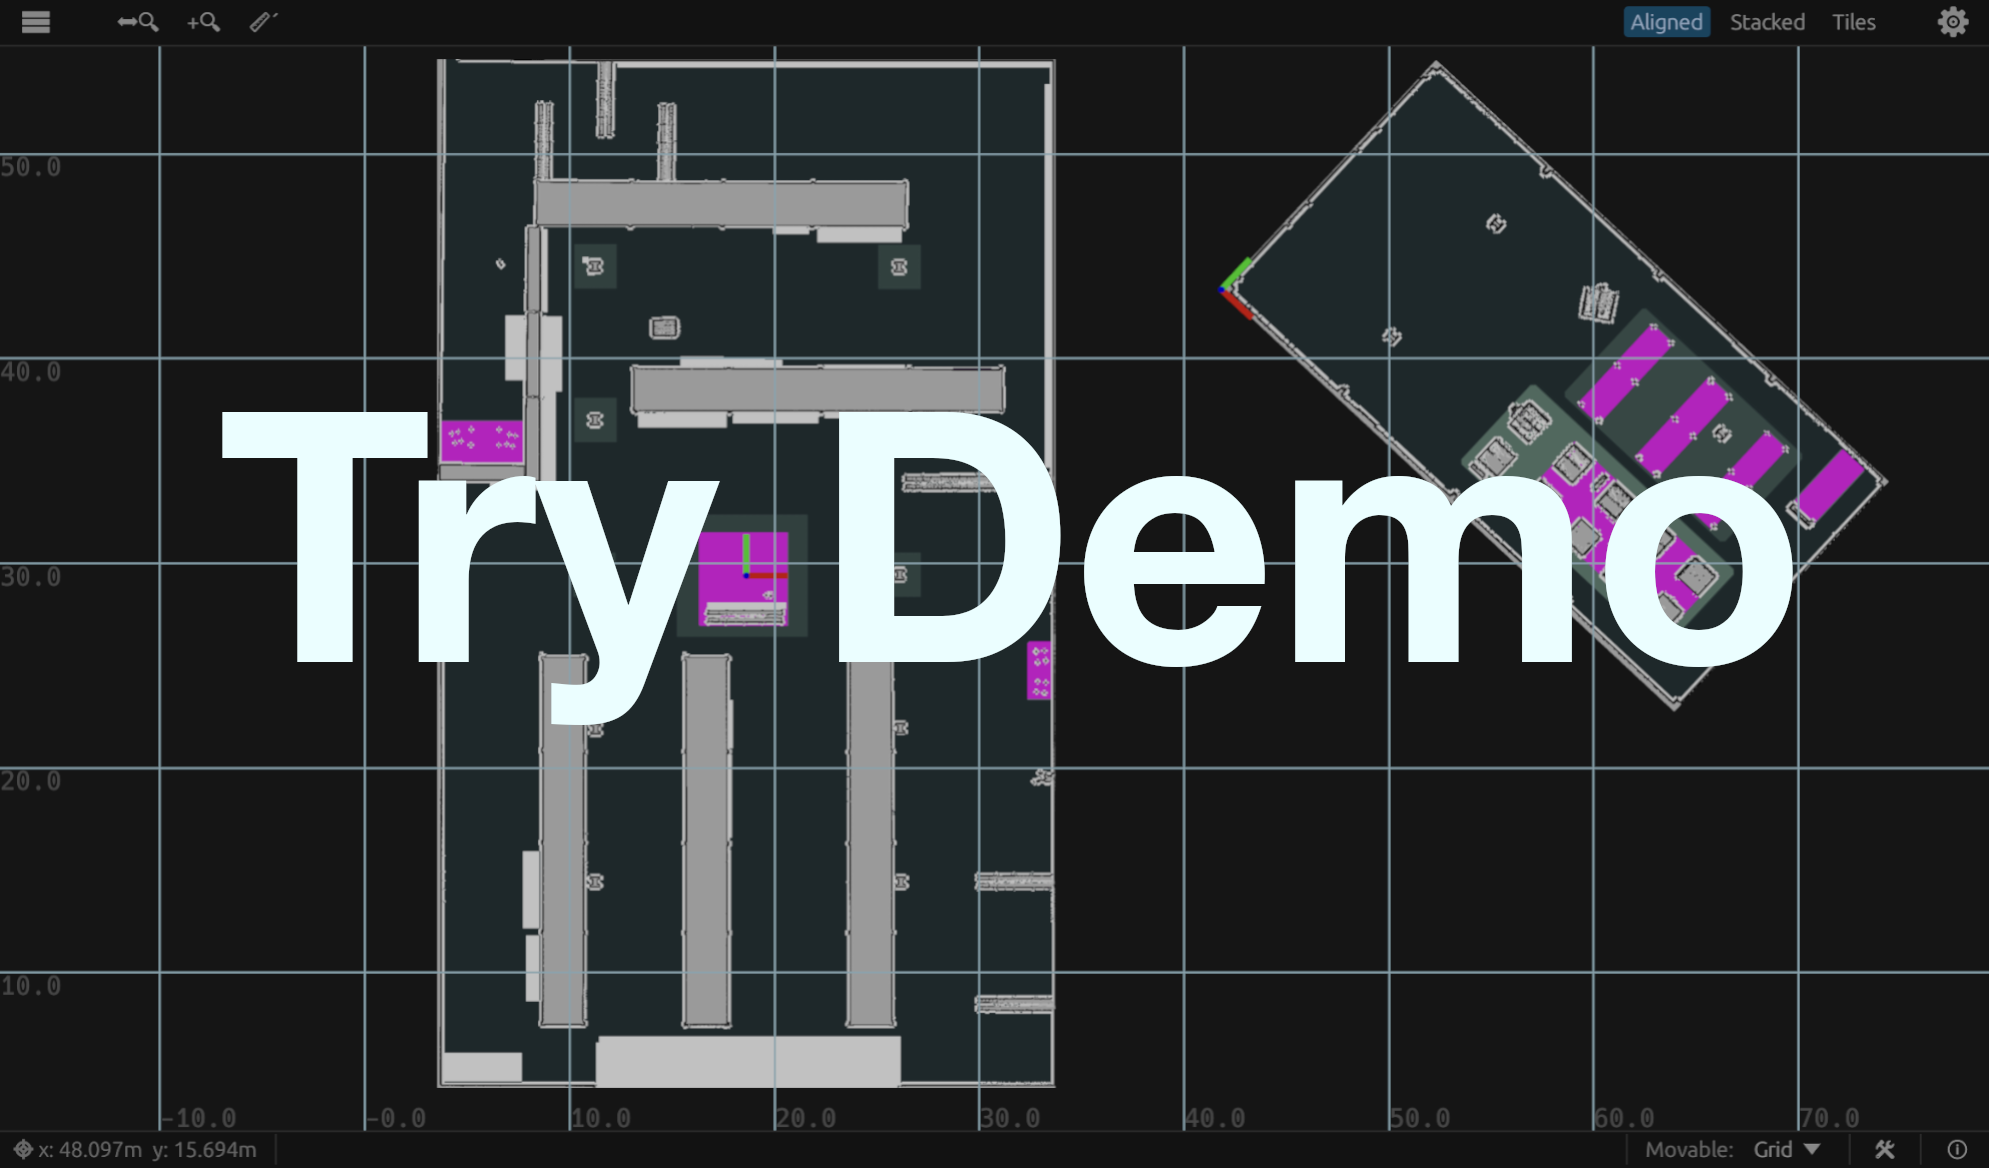
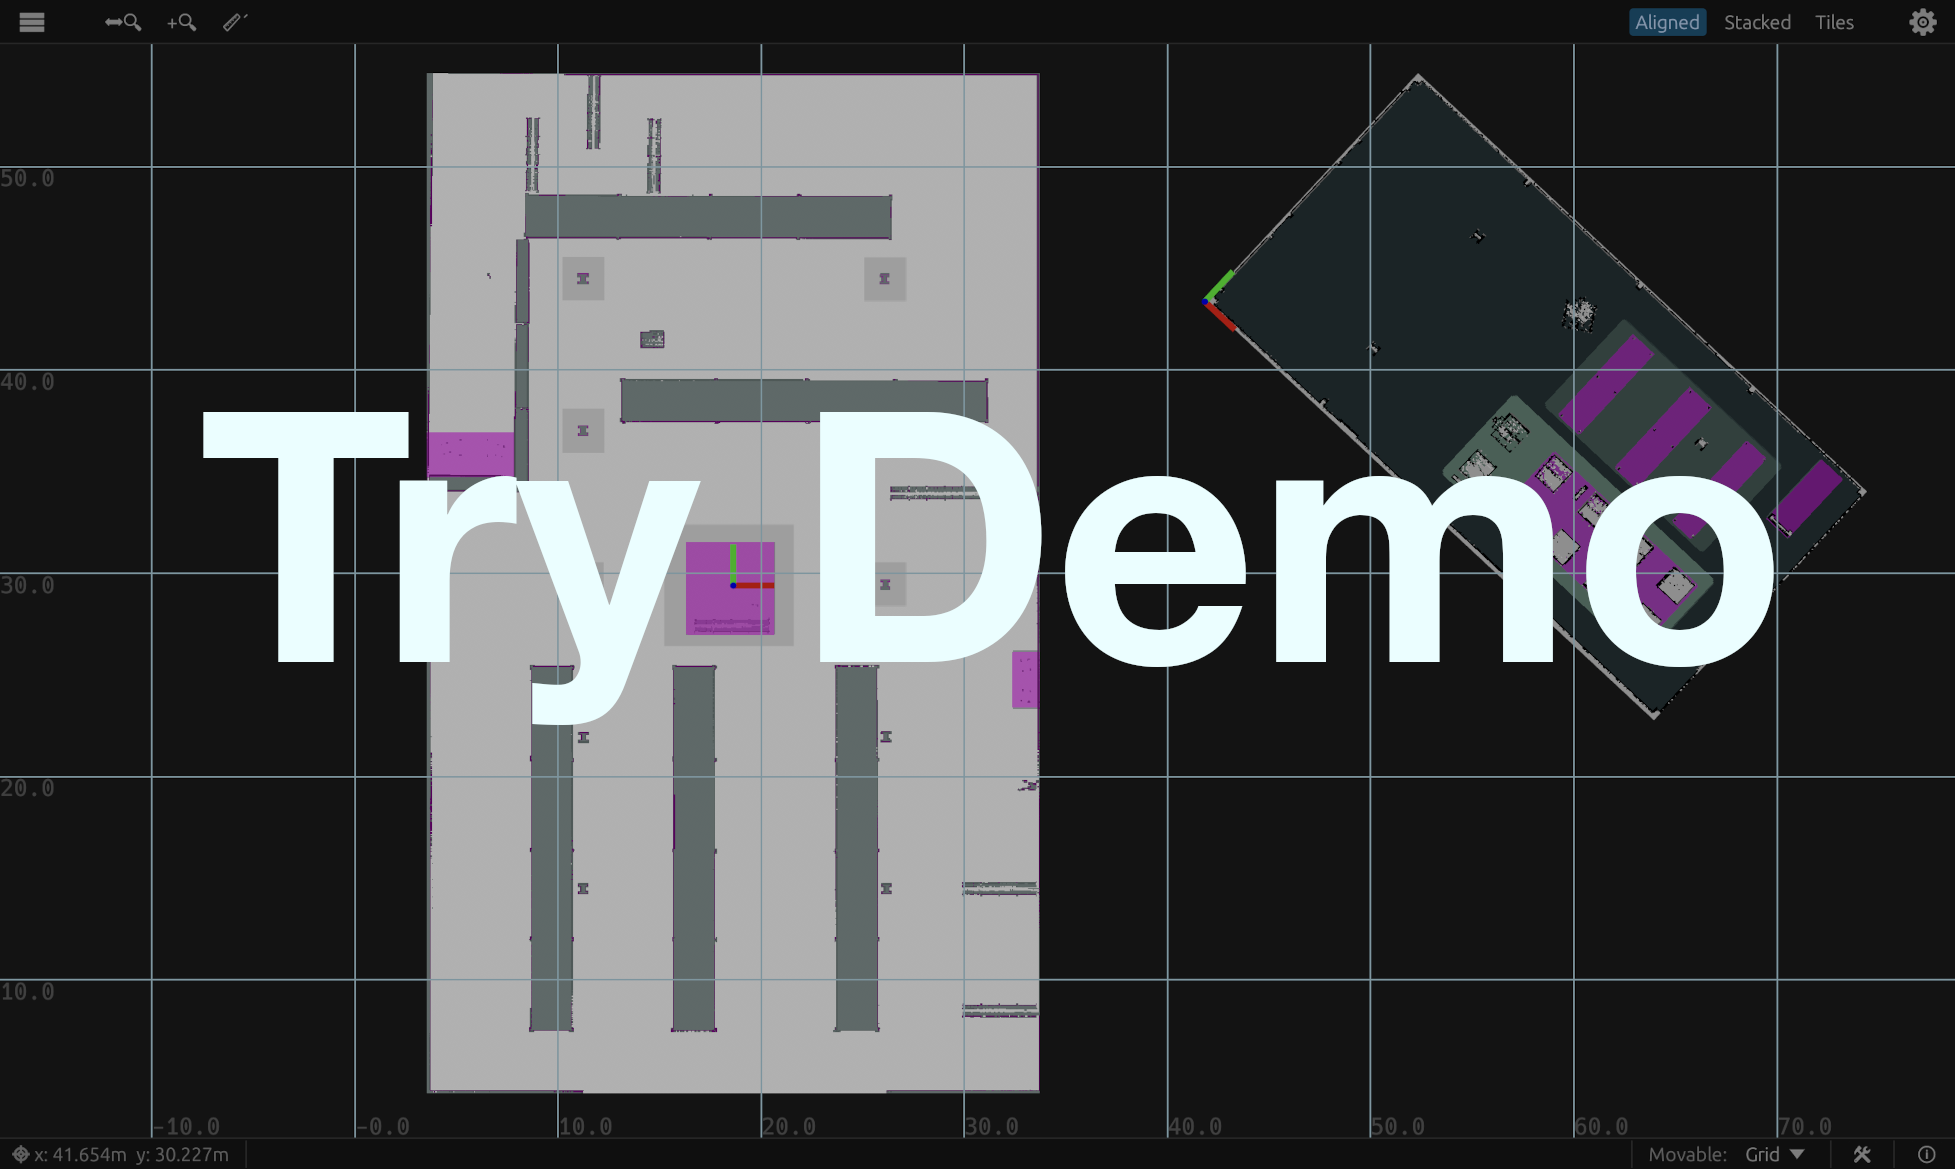
Adapt Nav2 demo
Show one of the maps with normal colormap.

diff --git a/src/wasm/demo.rs b/src/wasm/demo.rs
@@ -10,6 +10,7 @@ use crate::image_pyramid::ImagePyramid;
 use crate::map_pose::MapPose;
 use crate::meta::Meta;
 use crate::movable::Draggable;
+use crate::render_options::TextureFilter;
 use crate::value_colormap::ColorMap;
 use crate::value_interpretation;
 
@@ -158,6 +159,7 @@ struct Nav2MapConfig<'a> {
     value_mode: Option<value_interpretation::Mode>,
     colormap: Option<ColorMap>,
     color_to_alpha: Option<egui::Color32>,
+    tint: Option<egui::Color32>,
 }
 
 /// Helper function to load a single nav2 example map.
@@ -186,12 +188,13 @@ fn load_nav2_map(app_state: &mut AppState, config: &Nav2MapConfig) {
         .maps
         .get_mut(&name)
         .expect("missing nav2 demo map");
-    map.tint = Some(egui::Color32::from_rgba_premultiplied(255, 255, 255, 255));
+    map.tint = config.tint;
     if let Some(alpha_color) = config.color_to_alpha {
         map.color_to_alpha = Some(alpha_color);
     }
     map.pose = MapPose::from_bytes(config.pose_bytes).expect("broken nav2 demo");
     map.use_value_interpretation = config.value_mode.is_some();
+    map.texture_filter = TextureFilter::Crisp;
 }
 
 /// Embeds all nav2 demo maps like in the native app session file
@@ -201,13 +204,28 @@ fn load_nav2_demo(app_state: &mut AppState) {
     load_nav2_map(
         app_state,
         &Nav2MapConfig {
+            name: "warehouse.yaml",
+            image_bytes: include_bytes!("../../data/nav2_example/warehouse.png"),
+            yaml_bytes: include_bytes!("../../data/nav2_example/warehouse.yaml"),
+            pose_bytes: include_bytes!("../../data/nav2_example/map_pose_warehouse.yaml"),
+            value_mode: Some(value_interpretation::Mode::Trinary),
+            colormap: Some(ColorMap::RvizMap),
+            color_to_alpha: None,
+            tint: None,
+        },
+    );
+
+    load_nav2_map(
+        app_state,
+        &Nav2MapConfig {
             name: "warehouse_speed.yaml",
             image_bytes: include_bytes!("../../data/nav2_example/warehouse_speed.png"),
             yaml_bytes: include_bytes!("../../data/nav2_example/warehouse_speed.yaml"),
             pose_bytes: include_bytes!("../../data/nav2_example/map_pose_warehouse.yaml"),
             value_mode: Some(value_interpretation::Mode::Scale),
-            colormap: Some(ColorMap::CoolCostmap),
+            colormap: Some(ColorMap::RvizMap),
             color_to_alpha: None,
+            tint: Some(egui::Color32::from_rgba_premultiplied(140, 140, 140, 140)),
         },
     );
 
@@ -221,19 +239,7 @@ fn load_nav2_demo(app_state: &mut AppState) {
             value_mode: Some(value_interpretation::Mode::Trinary),
             colormap: Some(ColorMap::RvizCostmap),
             color_to_alpha: None,
-        },
-    );
-
-    load_nav2_map(
-        app_state,
-        &Nav2MapConfig {
-            name: "warehouse.yaml",
-            image_bytes: include_bytes!("../../data/nav2_example/warehouse.png"),
-            yaml_bytes: include_bytes!("../../data/nav2_example/warehouse.yaml"),
-            pose_bytes: include_bytes!("../../data/nav2_example/map_pose_warehouse.yaml"),
-            value_mode: None,
-            colormap: None,
-            color_to_alpha: Some(egui::Color32::from_rgba_premultiplied(254, 254, 254, 255)),
+            tint: Some(egui::Color32::from_rgba_premultiplied(140, 140, 140, 140)),
         },
     );
 
@@ -247,6 +253,7 @@ fn load_nav2_demo(app_state: &mut AppState) {
             value_mode: Some(value_interpretation::Mode::Scale),
             colormap: Some(ColorMap::CoolCostmap),
             color_to_alpha: None,
+            tint: None,
         },
     );
 
@@ -260,6 +267,7 @@ fn load_nav2_demo(app_state: &mut AppState) {
             value_mode: Some(value_interpretation::Mode::Trinary),
             colormap: Some(ColorMap::RvizCostmap),
             color_to_alpha: None,
+            tint: Some(egui::Color32::from_rgba_premultiplied(140, 140, 140, 140)),
         },
     );
 
@@ -273,6 +281,7 @@ fn load_nav2_demo(app_state: &mut AppState) {
             value_mode: None,
             colormap: None,
             color_to_alpha: Some(egui::Color32::from_rgba_premultiplied(254, 254, 254, 255)),
+            tint: None,
         },
     );
 
